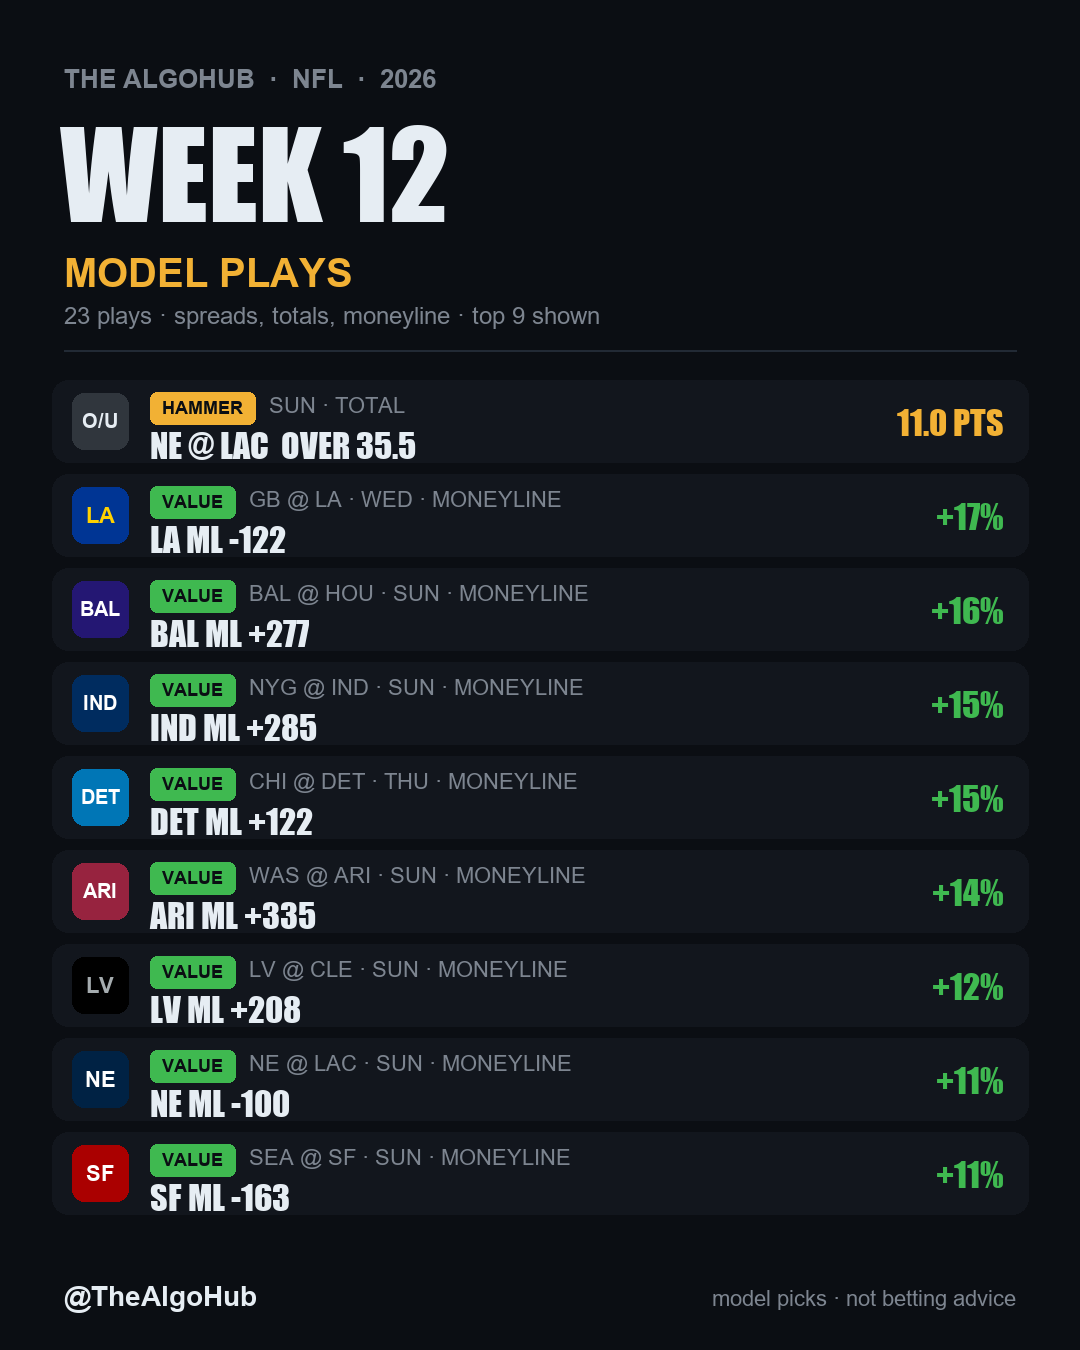
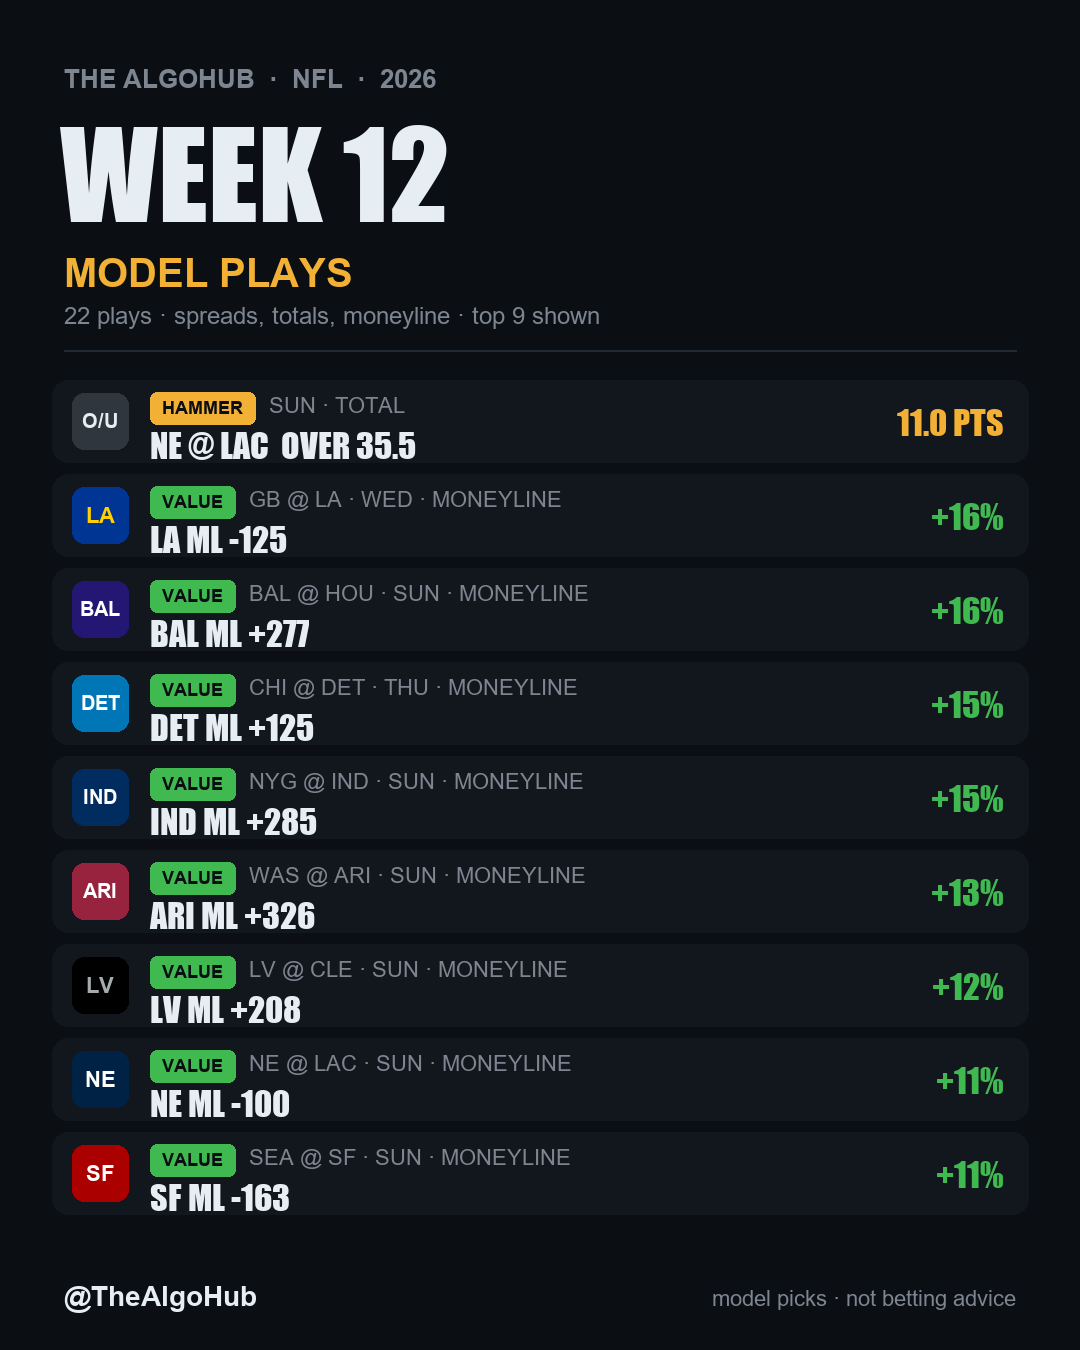
auto: week 12 Tue 10:04

diff --git a/cards/2026_wk12.html b/cards/2026_wk12.html
@@ -86,7 +86,7 @@ background:#0f1319;color:var(--tx);padding:13px 16px;font:700 11px Inter,system-
     <div><div class="k">THE ALGOHUB · NFL GAME ALGO · 2026</div><h1>WEEK 12</h1></div>
     <div class="stats">
       <div><small>GAMES</small><b>16</b></div>
-      <div class="p"><small>PLAYS</small><b>11</b></div>
+      <div class="p"><small>PLAYS</small><b>10</b></div>
       <div class="h"><small>HAMMERS</small><b>1</b></div>
       <div class="pp"><small>PROP PLAYS</small><b>17</b></div>
     </div>
@@ -135,7 +135,7 @@ background:#0f1319;color:var(--tx);padding:13px 16px;font:700 11px Inter,system-
         </div>
         <div class="pick none">NO PLAY</div>
       </div>
-      <div class="ml">ML VALUE <b>LA -122</b><span>+16.8% vs no-vig</span></div>
+      <div class="ml">ML VALUE <b>LA -125</b><span>+16.3% vs no-vig</span></div>
       <div class="strip"><div class="mlabel">EPA MATCHUP <em>(+ = offense edge)</em></div>
           <div class="srow"><span class="slab">GB PASS O <em>vs</em> LA D</span>
             <span class="sbar"><i class="neg" style="width:5.4%"></i></span>
@@ -485,7 +485,7 @@ background:#0f1319;color:var(--tx);padding:13px 16px;font:700 11px Inter,system-
         </div>
         <div class="pick none">NO PLAY</div>
       </div>
-      <div class="ml">ML VALUE <b>DET +122</b><span>+14.6% vs no-vig</span></div>
+      <div class="ml">ML VALUE <b>DET +125</b><span>+15.1% vs no-vig</span></div>
       <div class="strip"><div class="mlabel">EPA MATCHUP <em>(+ = offense edge)</em></div>
           <div class="srow"><span class="slab">CHI PASS O <em>vs</em> DET D</span>
             <span class="sbar"><i class="pos" style="width:13.6%"></i></span>
@@ -936,7 +936,7 @@ background:#0f1319;color:var(--tx);padding:13px 16px;font:700 11px Inter,system-
           <div class="srow"><span class="slab">BUF RUSH O <em>vs</em> KC D</span>
             <span class="sbar"><i class="pos" style="width:13.3%"></i></span>
             <span class="sval pos">+0.08</span></div><div class="mlabel dlab">DEFENSE <em>(man/shell/pressure 2025 · blitz 2026)</em></div><div class="dline"><b>KC D</b><span>MAN 36% · C2 · PRESS 33% · BLITZ 26%</span></div><div class="dline"><b>BUF D</b><span>MAN 31% · C2 · PRESS 33% · BLITZ 35%</span></div></div>
-      <div class="chips"><span class="chip">KC SHORT WEEK</span><span class="chip">BUF SHORT WEEK</span><span class="chip">37°F · 14 MPH · RAIN 98%</span></div>
+      <div class="chips"><span class="chip">KC SHORT WEEK</span><span class="chip">BUF SHORT WEEK</span><span class="chip">37°F · 14 MPH · RAIN 96%</span></div>
       
       <button class="ptoggle" aria-expanded="false">PLAYER PROPS · 24<span class="car">▾</span></button>
       <div class="props" hidden>
@@ -1107,7 +1107,7 @@ background:#0f1319;color:var(--tx);padding:13px 16px;font:700 11px Inter,system-
         </div>
         <div class="pick none">NO PLAY</div>
       </div>
-      <div class="ml">ML VALUE <b>PIT +141</b><span>+7.6% vs no-vig</span></div>
+      <div class="ml">ML VALUE <b>PIT +141</b><span>+7.8% vs no-vig</span></div>
       <div class="strip"><div class="mlabel">EPA MATCHUP <em>(+ = offense edge)</em></div>
           <div class="srow"><span class="slab">DEN PASS O <em>vs</em> PIT D</span>
             <span class="sbar"><i class="neg" style="width:0.6%"></i></span>
@@ -1121,7 +1121,7 @@ background:#0f1319;color:var(--tx);padding:13px 16px;font:700 11px Inter,system-
           <div class="srow"><span class="slab">PIT RUSH O <em>vs</em> DEN D</span>
             <span class="sbar"><i class="pos" style="width:23.9%"></i></span>
             <span class="sval pos">+0.14</span></div><div class="mlabel dlab">DEFENSE <em>(man/shell/pressure 2025 · blitz 2026)</em></div><div class="dline"><b>DEN D</b><span>MAN 44% · C1 · PRESS 34% · BLITZ 34%</span></div><div class="dline"><b>PIT D</b><span>MAN 36% · C3 · PRESS 29% · BLITZ 28%</span></div></div>
-      <div class="chips"><span class="chip">DEN SHORT WEEK</span><span class="chip">PIT SHORT WEEK</span><span class="chip">💨 37°F · 15 MPH · RAIN 65%</span><span class="chip inj">OUT: Michael Pittman</span></div>
+      <div class="chips"><span class="chip">DEN SHORT WEEK</span><span class="chip">PIT SHORT WEEK</span><span class="chip">💨 37°F · 15 MPH · RAIN 58%</span><span class="chip inj">OUT: Michael Pittman</span></div>
       
       <button class="ptoggle" aria-expanded="false">PLAYER PROPS · 24<span class="car">▾</span></button>
       <div class="props" hidden>
@@ -2030,7 +2030,7 @@ background:#0f1319;color:var(--tx);padding:13px 16px;font:700 11px Inter,system-
           <div class="srow"><span class="slab">MIA RUSH O <em>vs</em> NYJ D</span>
             <span class="sbar"><i class="pos" style="width:4.2%"></i></span>
             <span class="sval pos">+0.03</span></div><div class="mlabel dlab">DEFENSE <em>(man/shell/pressure 2025 · blitz 2026)</em></div><div class="dline"><b>NYJ D</b><span>MAN 40% · C1 · PRESS 24% · BLITZ 37%</span></div><div class="dline"><b>MIA D</b><span>MAN 27% · C2 · PRESS 27% · BLITZ 21%</span></div></div>
-      <div class="chips"><span class="chip">MIA QB CHANGE</span><span class="chip">74°F · 9 MPH · RAIN 42%</span><span class="chip">DIVISION</span><span class="chip inj">OUT: Malik Willis</span></div>
+      <div class="chips"><span class="chip">MIA QB CHANGE</span><span class="chip">74°F · 9 MPH</span><span class="chip">DIVISION</span><span class="chip inj">OUT: Malik Willis</span></div>
       
       <button class="ptoggle" aria-expanded="false">PLAYER PROPS · 24<span class="car">▾</span></button>
       <div class="props" hidden>
@@ -2197,7 +2197,7 @@ background:#0f1319;color:var(--tx);padding:13px 16px;font:700 11px Inter,system-
         </div>
         <div class="pick none">NO PLAY</div>
       </div>
-      <div class="ml">ML VALUE <b>TEN +852</b><span>+4.6% vs no-vig</span></div>
+      <div class="ml">ML VALUE <b>TEN +900</b><span>+5.1% vs no-vig</span></div>
       <div class="strip"><div class="mlabel">EPA MATCHUP <em>(+ = offense edge)</em></div>
           <div class="srow"><span class="slab">TEN PASS O <em>vs</em> JAX D</span>
             <span class="sbar"><i class="neg" style="width:29.3%"></i></span>
@@ -2362,11 +2362,11 @@ background:#0f1319;color:var(--tx);padding:13px 16px;font:700 11px Inter,system-
       <div class="mkt">
         <div class="mlabel">SPREAD</div>
         <div class="cols">
-          <div><small>VEGAS</small><span>LAC -1.5</span></div>
+          <div><small>VEGAS</small><span>NE -1.5</span></div>
           <div><small>MODEL</small><span>NE -3.7</span></div>
-          <div class="edge hot"><small>EDGE</small><span>5.2</span></div>
+          <div class="edge "><small>EDGE</small><span>2.2</span></div>
         </div>
-        <div class="pick t-play"><span class="tier">PLAY</span>NE +1.5</div>
+        <div class="pick none">NO PLAY</div>
       </div>
       
       <div class="mkt">
@@ -2378,7 +2378,7 @@ background:#0f1319;color:var(--tx);padding:13px 16px;font:700 11px Inter,system-
         </div>
         <div class="pick t-hammer"><span class="tier">HAMMER</span>OVER 35.5</div>
       </div>
-      <div class="ml">ML VALUE <b>NE -100</b><span>+11.1% vs no-vig</span></div>
+      <div class="ml">ML VALUE <b>NE -100</b><span>+11.4% vs no-vig</span></div>
       <div class="strip"><div class="mlabel">EPA MATCHUP <em>(+ = offense edge)</em></div>
           <div class="srow"><span class="slab">NE PASS O <em>vs</em> LAC D</span>
             <span class="sbar"><i class="pos" style="width:6.5%"></i></span>
@@ -2568,7 +2568,7 @@ background:#0f1319;color:var(--tx);padding:13px 16px;font:700 11px Inter,system-
           <div class="srow"><span class="slab">SF RUSH O <em>vs</em> SEA D</span>
             <span class="sbar"><i class="pos" style="width:14.8%"></i></span>
             <span class="sval pos">+0.09</span></div><div class="mlabel dlab">DEFENSE <em>(man/shell/pressure 2025 · blitz 2026)</em></div><div class="dline"><b>SEA D</b><span>MAN 29% · C2 · PRESS 32% · BLITZ 24%</span></div><div class="dline"><b>SF D</b><span>MAN 25% · C3 · PRESS 23% · BLITZ 29%</span></div></div>
-      <div class="chips"><span class="chip">SEA OFF BYE</span><span class="chip">63°F · 10 MPH · RAIN 72%</span><span class="chip">DIVISION</span><span class="chip inj">OUT: George Holani</span></div>
+      <div class="chips"><span class="chip">SEA OFF BYE</span><span class="chip">63°F · 10 MPH · RAIN 55%</span><span class="chip">DIVISION</span><span class="chip inj">OUT: George Holani</span></div>
       
       <button class="ptoggle" aria-expanded="false">PLAYER PROPS · 24<span class="car">▾</span></button>
       <div class="props" hidden>
@@ -2735,7 +2735,7 @@ background:#0f1319;color:var(--tx);padding:13px 16px;font:700 11px Inter,system-
         </div>
         <div class="pick t-lean"><span class="tier">LEAN</span>OVER 41.5</div>
       </div>
-      <div class="ml">ML VALUE <b>ARI +335</b><span>+13.6% vs no-vig</span></div>
+      <div class="ml">ML VALUE <b>ARI +326</b><span>+13.2% vs no-vig</span></div>
       <div class="strip"><div class="mlabel">EPA MATCHUP <em>(+ = offense edge)</em></div>
           <div class="srow"><span class="slab">WAS PASS O <em>vs</em> ARI D</span>
             <span class="sbar"><i class="pos" style="width:20.1%"></i></span>
@@ -2925,7 +2925,7 @@ background:#0f1319;color:var(--tx);padding:13px 16px;font:700 11px Inter,system-
           <div class="srow"><span class="slab">CLE RUSH O <em>vs</em> LV D</span>
             <span class="sbar"><i class="neg" style="width:3.0%"></i></span>
             <span class="sval neg">-0.02</span></div><div class="mlabel dlab">DEFENSE <em>(man/shell/pressure 2025 · blitz 2026)</em></div><div class="dline"><b>LV D</b><span>MAN 20% · C3 · PRESS 27% · BLITZ 29%</span></div><div class="dline"><b>CLE D</b><span>MAN 41% · C1 · PRESS 35% · BLITZ 27%</span></div></div>
-      <div class="chips"><span class="chip">CLE OFF BYE</span><span class="chip">💨 46°F · 15 MPH</span><span class="chip">LV CROSS-COUNTRY</span></div>
+      <div class="chips"><span class="chip">CLE OFF BYE</span><span class="chip">💨 46°F · 15 MPH · RAIN 45%</span><span class="chip">LV CROSS-COUNTRY</span></div>
       
       <button class="ptoggle" aria-expanded="false">PLAYER PROPS · 23<span class="car">▾</span></button>
       <div class="props" hidden>
